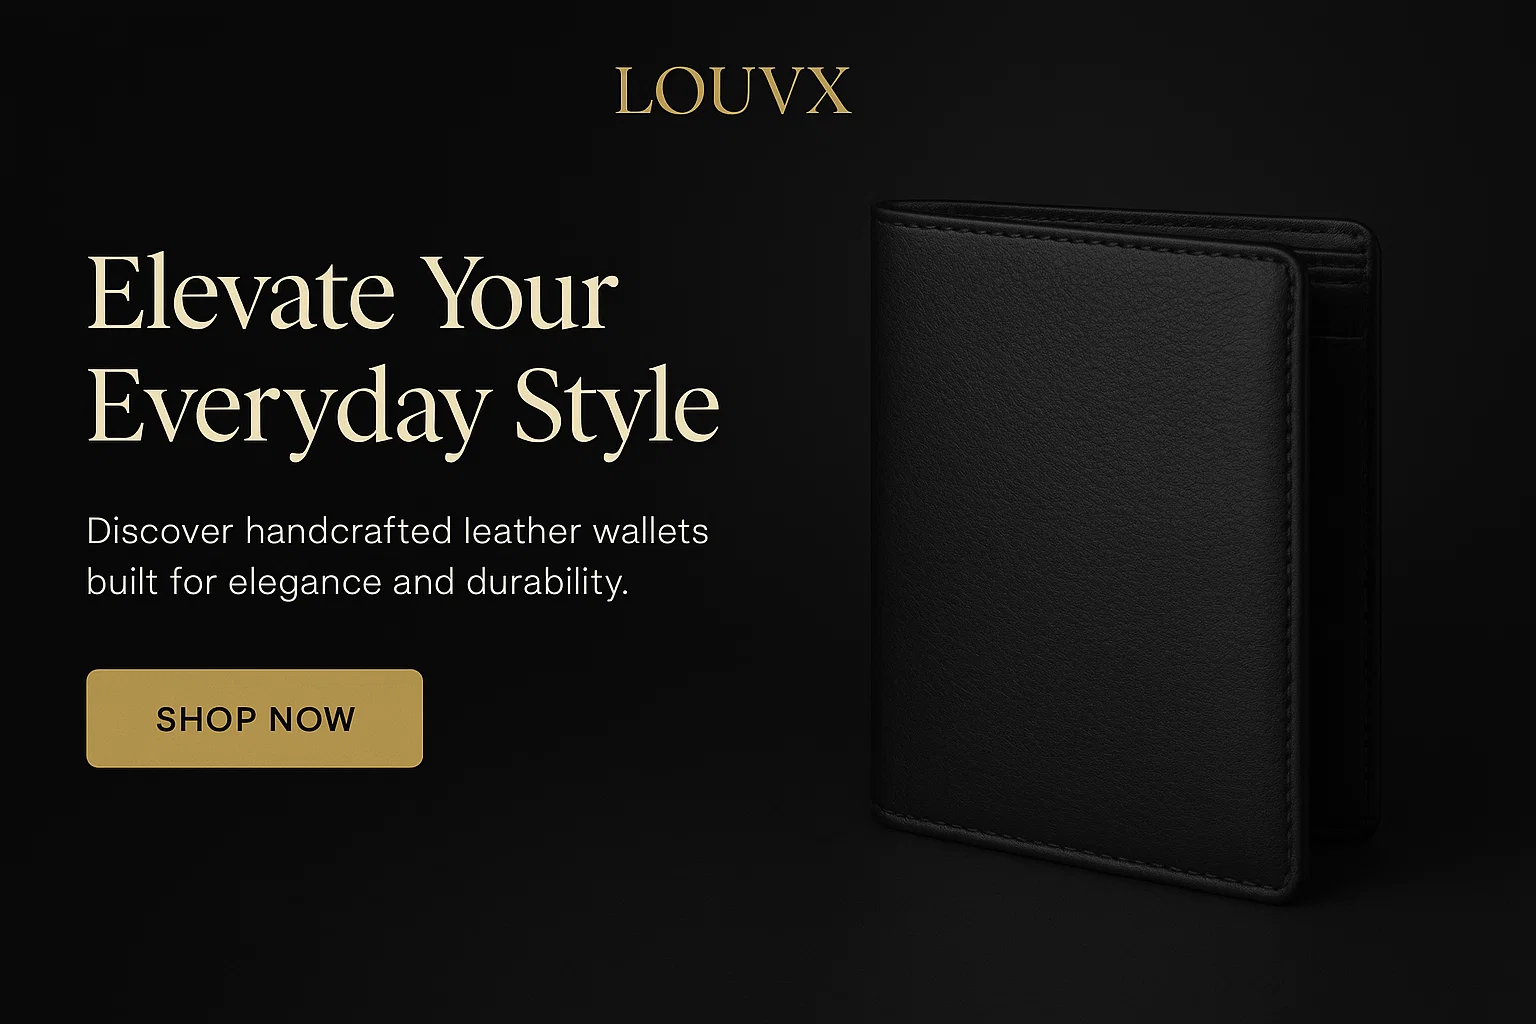
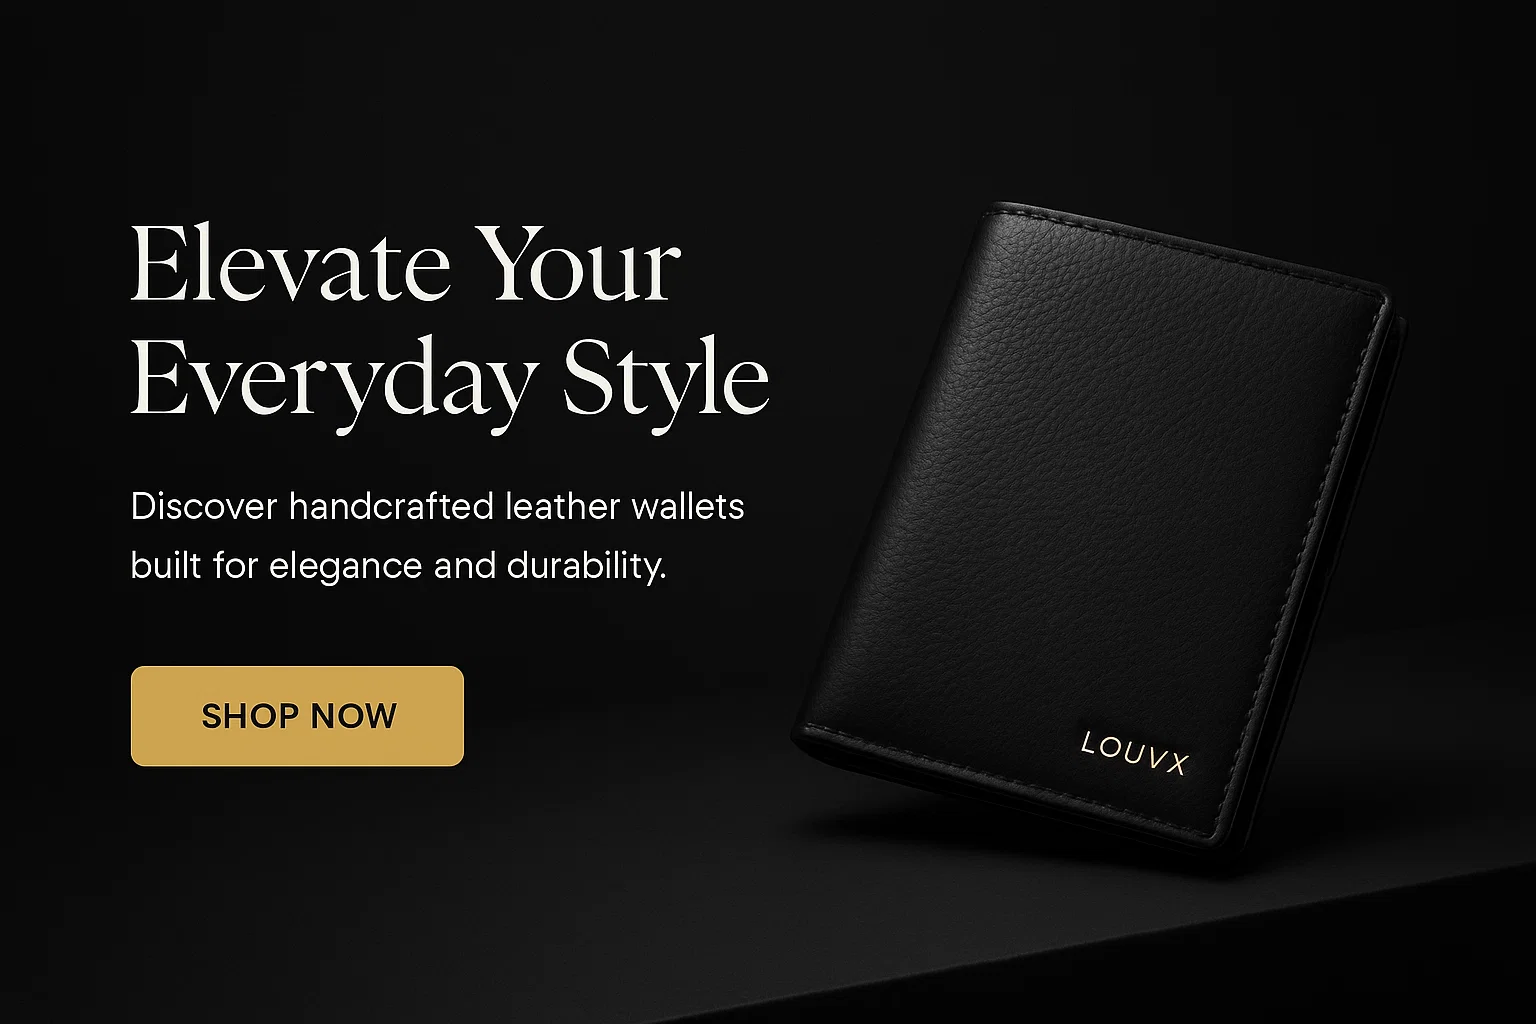
fix some issues in hero section and sidemenu

diff --git a/components/layout/Header/SideMenu.tsx b/components/layout/Header/SideMenu.tsx
@@ -7,7 +7,7 @@ import { usePathname } from "next/navigation"
 export function SideMenu() {
   const [isOpen, setIsOpen] = useState(false)
   const pathname = usePathname()
-
+ 
   // Close menu when route changes
   useEffect(() => {
     setIsOpen(false)
@@ -17,11 +17,6 @@ export function SideMenu() {
   useEffect(() => {
     if (isOpen) {
       document.body.style.overflow = "hidden"
-    } else {
-      document.body.style.overflow = "unset"
-    }
-    return () => {
-      document.body.style.overflow = "unset"
     }
   }, [isOpen])
 
@@ -33,7 +28,7 @@ export function SideMenu() {
     document.addEventListener("keydown", handleEscape)
     return () => document.removeEventListener("keydown", handleEscape)
   }, [])
-
+ console.log(isOpen)
   const menuItems = [
     {
       name: "Home",

diff --git a/components/home/Hero.tsx b/components/home/Hero.tsx
@@ -5,18 +5,16 @@ import Image from "next/image"
 export default function Hero() {
   return (
     <section className="relative w-full overflow-hidden">
-      <div className="relative w-full h-[300px] sm:h-[400px] md:h-[500px] lg:h-[600px] xl:h-[700px]">
+      <div className="relative w-full h-[300px] sm:h-[400px] md:h-[500px] lg:h-screen">
         <Image
           src="/herobanner.webp"
           alt="Hero Banner - Premium Smart Wallets"
           fill
           priority
-          className="object-cover object-center"
+          className="object-cover"
           quality={100}
           sizes="100vw"
         />
-
-        <div className="absolute inset-0 bg-black/20" />
       </div>
     </section>
   )

diff --git a/components/home/FeaturedProducts.tsx b/components/home/FeaturedProducts.tsx
@@ -39,7 +39,7 @@ export default function FeaturedProducts() {
     <section className="py-16 sm:py-20 md:py-24 lg:py-28 bg-accent/3">
       <div className="container mx-auto px-4 sm:px-6 lg:px-8">
         <div className="text-center mb-12 sm:mb-14 md:mb-16">
-          <h2 className="text-3xl sm:text-4xl md:text-5xl font-bold mb-3 text-foreground">Featured Products</h2>
+          <h2 className="text-3xl sm:text-4xl md:text-5xl font-bold mb-3 text-black">Featured Products</h2>
           <div className="w-12 h-1 bg-primary mx-auto rounded-full" />
           <p className="text-muted-foreground text-base sm:text-lg mt-4 max-w-2xl mx-auto">
             Discover our handpicked selection of premium smart wallets

diff --git a/app/layout.tsx b/app/layout.tsx
@@ -16,8 +16,7 @@ const geistMono = Geist_Mono({
 
 export const metadata: Metadata = {
   title: "Louvx - Premium Smart Wallet",
-  description: "Discover Louvx, the premium smart wallet with built-in tracking card for ultimate security and elegance.",
-    generator: 'v0.app'
+  description: "Discover Louvx, the premium smart wallet with built-in tracking card for ultimate security and elegance."
 };
 
 

diff --git a/components/layout/Header/MobileMenu.tsx b/components/layout/Header/MobileMenu.tsx
@@ -15,11 +15,6 @@ export function MobileMenu() {
   useEffect(() => {
     if (isOpen) {
       document.body.style.overflow = "hidden"
-    } else {
-      document.body.style.overflow = "unset"
-    }
-    return () => {
-      document.body.style.overflow = "unset"
     }
   }, [isOpen])
 
